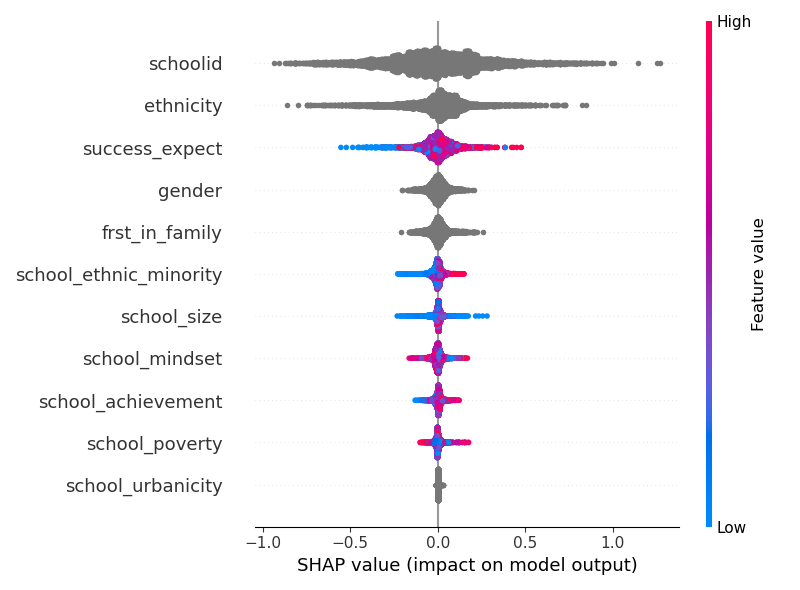
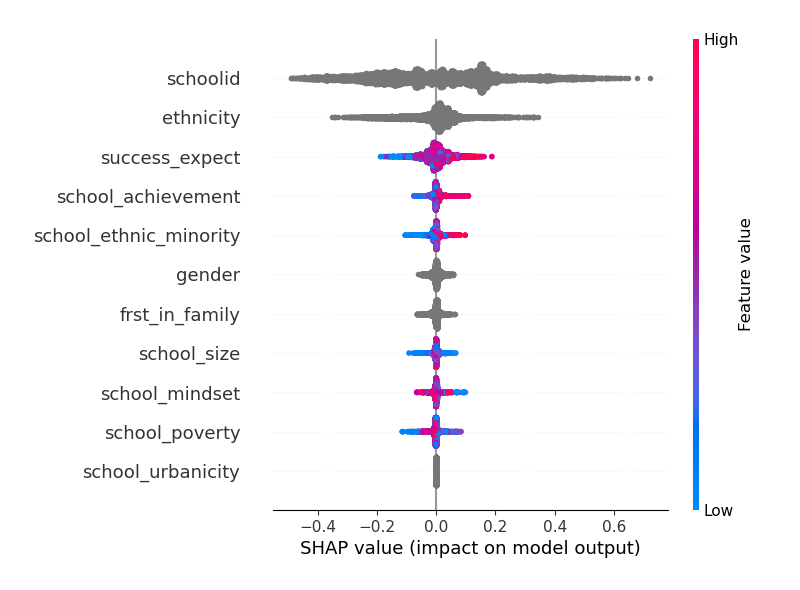
Adapt font size in plots.

diff --git a/src/script.py b/src/script.py
@@ -21,6 +21,8 @@ _SEED = 42
 _FIG_SIZE_HIST = (15, 10)
 _FONT_SIZE = 16
 
+plt.rcParams.update({'font.size': 22})
+
 
 def step_1():
     df = pd.read_csv(Path(git_root()) / "data" / "learning_mindset.csv")
@@ -136,6 +138,7 @@ def step_3(df, outcome_column, treatment_column, feature_columns):
 
     fig, ax = plt.subplots(figsize=_FIG_SIZE_HIST)
     ax.hist(cate_estimates_rlearner, bins=30, color=_NEUTRAL_COLOR)
+    ax.set_xlabel("$\\hat{\\tau}(X_i)$: treatment effect estimate")
     fig.savefig("hist_cates.png")
 
     return rlearner
@@ -285,6 +288,7 @@ def step_4(df, feature_columns, outcome_column, treatment_column):
     ax.hist(
         cate_estimates_tuned_rlearner, bins=30, label="default", density=True, alpha=0.5
     )
+    ax.set_xlabel("$\\hat{\\tau}(X_i)$: treatment effect estimate")
     ax.legend()
     fig.savefig("hist_cates_tuned.png")
     return tuned_rlearner

diff --git a/slides/slides.md b/slides/slides.md
@@ -349,7 +349,7 @@ gs.fit(X_train, y_train, w_train, X_validation, y_validation, w_validation)
 tuned_rlearner.predict(df[feature_columns], is_oos=False)
 ```
 
-![w:300](imgs/hist_cates.png)![w:300](imgs/hist_cates_tuned.png)
+![w:550 center](imgs/hist_cates_tuned.png)
 
 ---
 
